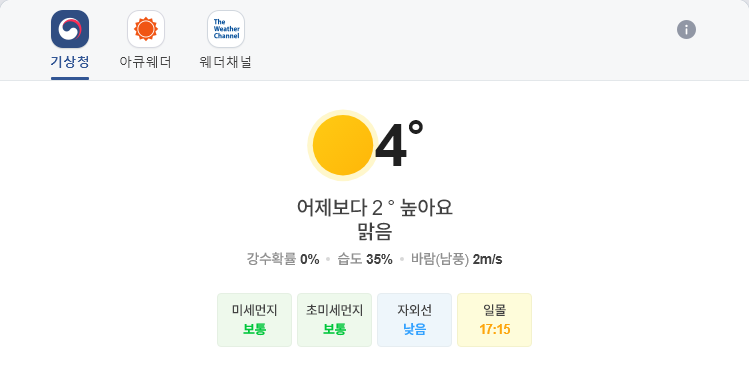
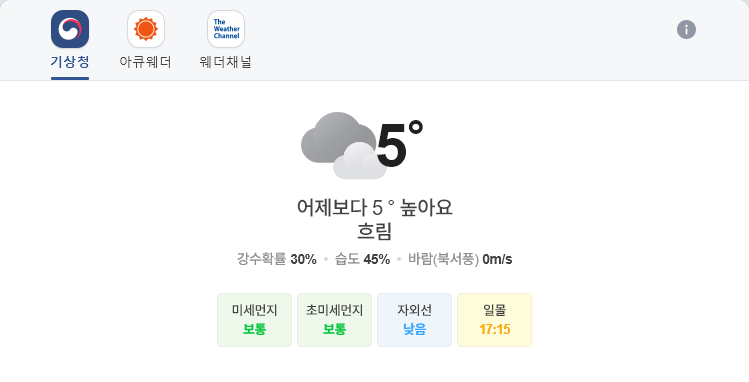
update result

Changed region(s): [[0.3992, 0.288, 0.5527, 0.4895], [0.3071, 0.6623, 0.7063, 0.6911], [0.4606, 0.5183, 0.522, 0.6335]]

diff --git a/README.md b/README.md
@@ -1,13 +1,13 @@
-##  2020-12-09 12:07:46   수요일 
-##### 날씨   -   어제보다 2 ° 높아요맑음
+##  2020-12-09 16:02:52   수요일 
+##### 날씨   -   어제보다 5 ° 높아요흐림
 <center><img src="../img/naver_weather_week.png"></center>
 ----
 ----
 ##### 지수
 <table border="1" bordercolor="blue" align = "center" >
 <tr align = "right" > <td>Item</td><td>Point</td><td>Diff</td><td>Rate</td><td>Buy</td><td>Sell</td><td>...</td>  </tr>
-<tr align = "right" > <td>KOSPI</td><td>2,736.02</td><td>35.09</td><td><font size="3" color="red" >1.3%</font> </td><td><font size="3" color="black">2,000</font></td><td><font size="3" color="black">3,000</font></td><td>0</td>  </tr>
-<tr align = "right" > <td>KOSDAQ</td><td>913.13</td><td>6.29</td><td><font size="3" color="red" >0.69%</font> </td><td><font size="3" color="black">0</font></td><td><font size="3" color="black">0</font></td><td>0</td>  </tr>
+<tr align = "right" > <td>KOSPI</td><td>2,755.47</td><td>54.54</td><td><font size="3" color="red" >2.02%</font> </td><td><font size="3" color="black">2,000</font></td><td><font size="3" color="black">3,000</font></td><td>0</td>  </tr>
+<tr align = "right" > <td>KOSDAQ</td><td>913.81</td><td>6.97</td><td><font size="3" color="red" >0.77%</font> </td><td><font size="3" color="black">0</font></td><td><font size="3" color="black">0</font></td><td>0</td>  </tr>
 </table>
 ----
 ##### 세계
@@ -16,14 +16,14 @@
 <tr align = "right" > <td>DOW</td><td>30,173.88</td><td>104.09</td><td><font size="3" color="red" >0.35%</font></td><td><font size="3" color="black">0</font></td><td><font size="3" color="black">0</font></td><td>0</td>  </tr>
 <tr align = "right" > <td>NASDAQ</td><td>12,582.77</td><td>62.82</td><td><font size="3" color="red" >0.5%</font></td><td><font size="3" color="black">0</font></td><td><font size="3" color="black">0</font></td><td>0</td>  </tr>
 <tr align = "right" > <td>S&P</td><td>3,702.25</td><td>10.29</td><td><font size="3" color="red" >0.28%</font></td><td><font size="3" color="black">0</font></td><td><font size="3" color="black">0</font></td><td>0</td>  </tr>
-<tr align = "right" > <td>SHANHAI</td><td>3,414.1</td><td>3.92</td><td><font size="3" color="red" >0.11%</font></td><td><font size="3" color="black">0</font></td><td><font size="3" color="black">0</font></td><td>0</td>  </tr>
-<tr align = "right" > <td>INDIA</td><td>45,608.51</td><td>181.54</td><td><font size="3" color="red" >0.4%</font></td><td><font size="3" color="black">0</font></td><td><font size="3" color="black">0</font></td><td>0</td>  </tr>
+<tr align = "right" > <td>SHANHAI</td><td>3,382.9</td><td>-27.27</td><td><font size="3" color="blue" >-0.8%</font></td><td><font size="3" color="black">0</font></td><td><font size="3" color="black">0</font></td><td>0</td>  </tr>
+<tr align = "right" > <td>INDIA</td><td>45,927.95</td><td>319.44</td><td><font size="3" color="red" >0.7%</font></td><td><font size="3" color="black">0</font></td><td><font size="3" color="black">0</font></td><td>0</td>  </tr>
 </table>
 ----
 ##### 시장
 <table border="1" bordercolor="blue" align = "center" >
 <tr align = "right" > <td>Item</td><td>Price</td><td>Diff</td><td>Rate</td><td>Buy</td><td>Sell</td><td>...</td>  </tr>
-<tr align = "right" > <td>USD</td><td>1,084.0</td><td>-1.1</td><td><font size="3" color="blue">-0.1%</font></td><td><font size="3" color="orangered">1,110</font></td><td><font size="3" color="black">0</font></td><td>0</td>  </tr>
+<tr align = "right" > <td>USD</td><td>1,084.0</td><td>-1.0</td><td><font size="3" color="blue">-0.09%</font></td><td><font size="3" color="orangered">1,110</font></td><td><font size="3" color="black">0</font></td><td>0</td>  </tr>
 <tr align = "right" > <td>WTI</td><td>45.6</td><td>-0.16</td><td><font size="3" color="blue">-0.34%</font></td><td><font size="3" color="black">29.0</font></td><td><font size="3" color="black">0</font></td><td>0</td>  </tr>
 <tr align = "right" > <td>GOLD</td><td>1,870.0</td><td>9.0</td><td><font size="3" color="red">0.48%</font></td><td><font size="3" color="black">0</font></td><td><font size="3" color="black">0</font></td><td>0</td>  </tr>
 </table>
@@ -31,23 +31,23 @@
 ##### 주가
 <table border="1" bordercolor="blue" align = "center" >
 <tr align = "right" > <td>Item</td><td>Price</td><td>Diff</td><td>Rate</td><td>Purchased</td><td>Sell</td><td>Buy</td>  </tr>
-<tr align = "right" > <td>한국 전력</td><td>21,850</td><td>350</td><td><font size="3" color="red">1.63%</font></td><td>25,720</td><td><font size="3" color="black">30,000</font></td><td><font size="3" color="black">14,000</font></td>  </tr>
-<tr align = "right" > <td>삼성엔지니어.</td><td>13,250</td><td>50</td><td><font size="3" color="red">0.38%</font></td><td>18,935</td><td><font size="3" color="black">20,000</font></td><td><font size="3" color="black">8,000</font></td>  </tr>
-<tr align = "right" > <td>CJ CGV</td><td>23,650</td><td>700</td><td><font size="3" color="red">3.05%</font></td><td>34,895</td><td><font size="3" color="black">36,000</font></td><td><font size="3" color="black">0</font></td>  </tr>
-<tr align = "right" > <td>아모레퍼시픽</td><td>212,500</td><td>16,500</td><td><font size="3" color="red">8.42%</font></td><td>235,350</td><td><font size="3" color="black">240,000</font></td><td><font size="3" color="black">130,000</font></td>  </tr>
-<tr align = "right" > <td>한화</td><td>25,950</td><td>300</td><td><font size="3" color="red">1.17%</font></td><td>25,550</td><td><font size="3" color="black">30,000</font></td><td><font size="3" color="black">20,000</font></td>  </tr>
-<tr align = "right" > <td>NAVER</td><td>285,500</td><td>500</td><td><font size="3" color="red">0.18%</font></td><td>147,200</td><td><font size="3" color="black">400,000</font></td><td><font size="3" color="black">150,000</font></td>  </tr>
-<tr align = "right" > <td>LG 화학우</td><td>376,500</td><td>5,500</td><td><font size="3" color="red">1.48%</font></td><td>202,490</td><td><font size="3" color="black">500,000</font></td><td><font size="3" color="black">200,000</font></td>  </tr>
-<tr align = "right" > <td>스튜디오드래.</td><td>85,200</td><td>1,100</td><td><font size="3" color="red">1.31%</font></td><td>81,243</td><td><font size="3" color="black">100,000</font></td><td><font size="3" color="black">78,000</font></td>  </tr>
-<tr align = "right" > <td>글로벌럭셔리</td><td>14,470</td><td>20</td><td><font size="3" color="red">0.14%</font></td><td>0</td><td><font size="3" color="black">15,000</font></td><td><font size="3" color="black">10,000</font></td>  </tr>
-<tr align = "right" > <td>QV미국IT</td><td>25,150</td><td>105</td><td><font size="3" color="red">0.42%</font></td><td>0</td><td><font size="3" color="black">30,000</font></td><td><font size="3" color="black">20,000</font></td>  </tr>
-<tr align = "right" > <td>호텔 신라</td><td>84,000</td><td>2,700</td><td><font size="3" color="red">3.32%</font></td><td>72,800</td><td><font size="3" color="black">100,000</font></td><td><font size="3" color="black">70,000</font></td>  </tr>
-<tr align = "right" > <td>S-Oil</td><td>71,800</td><td>1,900</td><td><font size="3" color="red">2.72%</font></td><td>62,842</td><td><font size="3" color="black">100,000</font></td><td><font size="3" color="black">50,000</font></td>  </tr>
-<tr align = "right" > <td>LG전자</td><td>96,100</td><td>1,100</td><td><font size="3" color="red">1.16%</font></td><td>82,022</td><td><font size="3" color="black">100,000</font></td><td><font size="3" color="black">60,000</font></td>  </tr>
-<tr align = "right" > <td>지역난방공사</td><td>39,250</td><td>150</td><td><font size="3" color="red">0.38%</font></td><td>43,590</td><td><font size="3" color="black">60,000</font></td><td><font size="3" color="black">30,000</font></td>  </tr>
-<tr align = "right" > <td>KOEDX은행</td><td>6,250</td><td>85</td><td><font size="3" color="red">1.38%</font></td><td>5,178</td><td><font size="3" color="black">6,000</font></td><td><font size="3" color="black">4,500</font></td>  </tr>
-<tr align = "right" > <td>삼성 전자우</td><td>66,700</td><td>900</td><td><font size="3" color="red">1.37%</font></td><td>48,250</td><td><font size="3" color="black">56,000</font></td><td><font size="3" color="black">45,000</font></td>  </tr>
-<tr align = "right" > <td>한화에어로스.</td><td>26,050</td><td>100</td><td><font size="3" color="red">0.39%</font></td><td>25,700</td><td><font size="3" color="black">30,000</font></td><td><font size="3" color="black">24,000</font></td>  </tr>
-<tr align = "right" > <td>한국금융지주</td><td>78,200</td><td>400</td><td><font size="3" color="red">0.51%</font></td><td>0</td><td><font size="3" color="black">82,000</font></td><td><font size="3" color="black">60,000</font></td>  </tr>
+<tr align = "right" > <td>한국 전력</td><td>22,400</td><td>900</td><td><font size="3" color="red">4.19%</font></td><td>25,720</td><td><font size="3" color="black">30,000</font></td><td><font size="3" color="black">14,000</font></td>  </tr>
+<tr align = "right" > <td>삼성엔지니어.</td><td>13,350</td><td>150</td><td><font size="3" color="red">1.14%</font></td><td>18,935</td><td><font size="3" color="black">20,000</font></td><td><font size="3" color="black">8,000</font></td>  </tr>
+<tr align = "right" > <td>CJ CGV</td><td>23,700</td><td>750</td><td><font size="3" color="red">3.27%</font></td><td>34,895</td><td><font size="3" color="black">36,000</font></td><td><font size="3" color="black">0</font></td>  </tr>
+<tr align = "right" > <td>아모레퍼시픽</td><td>217,000</td><td>21,000</td><td><font size="3" color="red">10.71%</font></td><td>235,350</td><td><font size="3" color="black">240,000</font></td><td><font size="3" color="black">130,000</font></td>  </tr>
+<tr align = "right" > <td>한화</td><td>26,100</td><td>450</td><td><font size="3" color="red">1.75%</font></td><td>25,550</td><td><font size="3" color="black">30,000</font></td><td><font size="3" color="black">20,000</font></td>  </tr>
+<tr align = "right" > <td>NAVER</td><td>288,000</td><td>3,000</td><td><font size="3" color="red">1.05%</font></td><td>147,200</td><td><font size="3" color="black">400,000</font></td><td><font size="3" color="black">150,000</font></td>  </tr>
+<tr align = "right" > <td>LG 화학우</td><td>381,000</td><td>10,000</td><td><font size="3" color="red">2.7%</font></td><td>202,490</td><td><font size="3" color="black">500,000</font></td><td><font size="3" color="black">200,000</font></td>  </tr>
+<tr align = "right" > <td>스튜디오드래.</td><td>85,300</td><td>1,200</td><td><font size="3" color="red">1.43%</font></td><td>81,243</td><td><font size="3" color="black">100,000</font></td><td><font size="3" color="black">78,000</font></td>  </tr>
+<tr align = "right" > <td>글로벌럭셔리</td><td>14,450</td><td>0</td><td><font size="3" color="black">0.0%</font></td><td>0</td><td><font size="3" color="black">15,000</font></td><td><font size="3" color="black">10,000</font></td>  </tr>
+<tr align = "right" > <td>QV미국IT</td><td>25,145</td><td>100</td><td><font size="3" color="red">0.4%</font></td><td>0</td><td><font size="3" color="black">30,000</font></td><td><font size="3" color="black">20,000</font></td>  </tr>
+<tr align = "right" > <td>호텔 신라</td><td>84,600</td><td>3,300</td><td><font size="3" color="red">4.06%</font></td><td>72,800</td><td><font size="3" color="black">100,000</font></td><td><font size="3" color="black">70,000</font></td>  </tr>
+<tr align = "right" > <td>S-Oil</td><td>71,700</td><td>1,800</td><td><font size="3" color="red">2.58%</font></td><td>62,842</td><td><font size="3" color="black">100,000</font></td><td><font size="3" color="black">50,000</font></td>  </tr>
+<tr align = "right" > <td>LG전자</td><td>96,200</td><td>1,200</td><td><font size="3" color="red">1.26%</font></td><td>82,022</td><td><font size="3" color="black">100,000</font></td><td><font size="3" color="black">60,000</font></td>  </tr>
+<tr align = "right" > <td>지역난방공사</td><td>39,600</td><td>500</td><td><font size="3" color="red">1.28%</font></td><td>43,590</td><td><font size="3" color="black">60,000</font></td><td><font size="3" color="black">30,000</font></td>  </tr>
+<tr align = "right" > <td>KOEDX은행</td><td>6,235</td><td>70</td><td><font size="3" color="red">1.14%</font></td><td>5,178</td><td><font size="3" color="black">6,000</font></td><td><font size="3" color="black">4,500</font></td>  </tr>
+<tr align = "right" > <td>삼성 전자우</td><td>66,900</td><td>1,100</td><td><font size="3" color="red">1.67%</font></td><td>48,250</td><td><font size="3" color="black">56,000</font></td><td><font size="3" color="black">45,000</font></td>  </tr>
+<tr align = "right" > <td>한화에어로스.</td><td>26,450</td><td>500</td><td><font size="3" color="red">1.93%</font></td><td>25,700</td><td><font size="3" color="black">30,000</font></td><td><font size="3" color="black">24,000</font></td>  </tr>
+<tr align = "right" > <td>한국금융지주</td><td>78,000</td><td>200</td><td><font size="3" color="red">0.26%</font></td><td>0</td><td><font size="3" color="black">82,000</font></td><td><font size="3" color="black">60,000</font></td>  </tr>
 </table>
 ----
